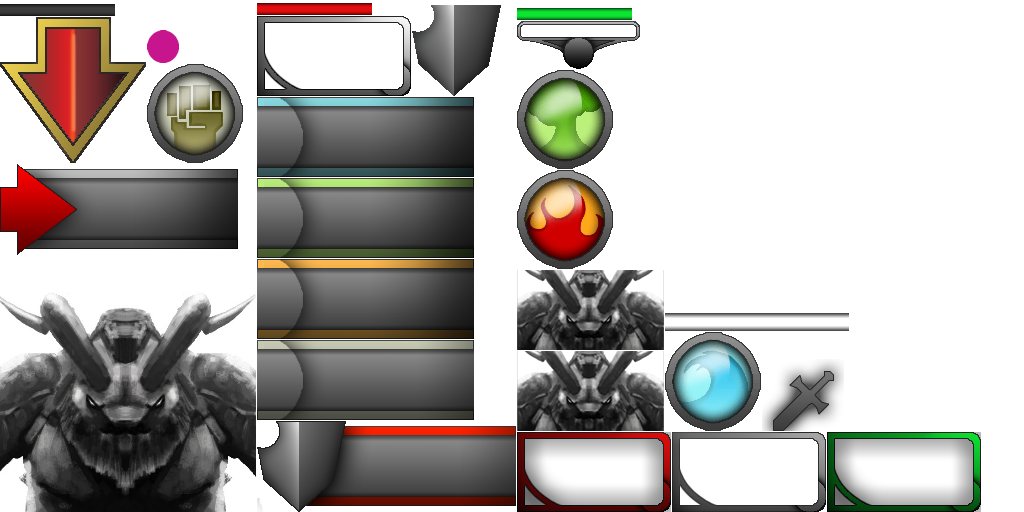
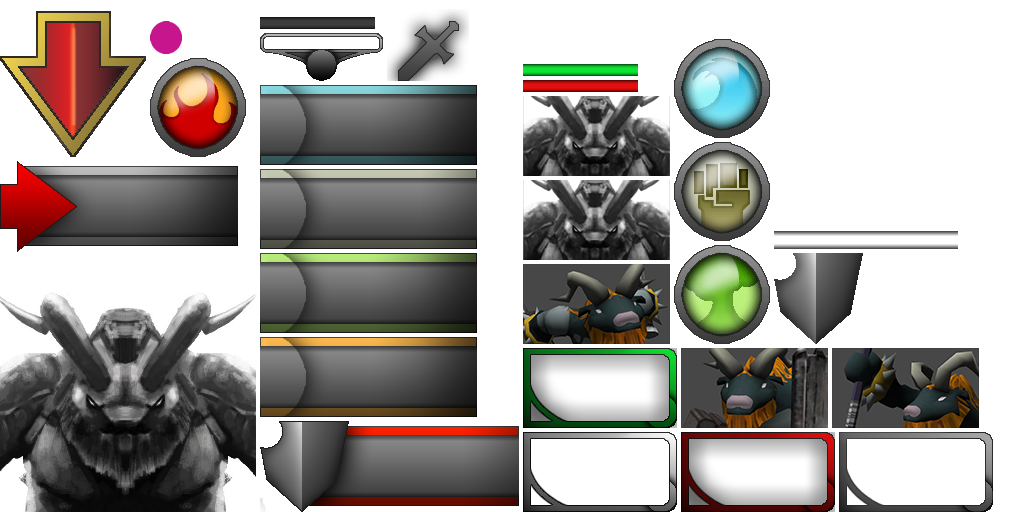
First version unit portrait added

diff --git a/Unity Project/Assets/TheRealBoB/Scripts/View/UI/BIniativeListUnit.cs b/Unity Project/Assets/TheRealBoB/Scripts/View/UI/BIniativeListUnit.cs
@@ -6,6 +6,7 @@ using System.Collections.Generic;
 public class BIniativeListUnit : MonoBehaviour, IComparable {
 
 	public UILabel label;
+	public UISprite unitPortrait;
 	public UISprite teamSprite;
 	public UISprite typeSprite;
 	public Unit unit;
@@ -28,6 +29,7 @@ public class BIniativeListUnit : MonoBehaviour, IComparable {
 		this.firstYOffset = firstYOffset;
 		label.text = unit.Name;
 		typeSprite.spriteName = unit.data.type.name;
+		unitPortrait.spriteName = unit.Name;
 
 		if(unit.team == Unit.Team.AI) {
 			teamSprite.color = aiColor;
